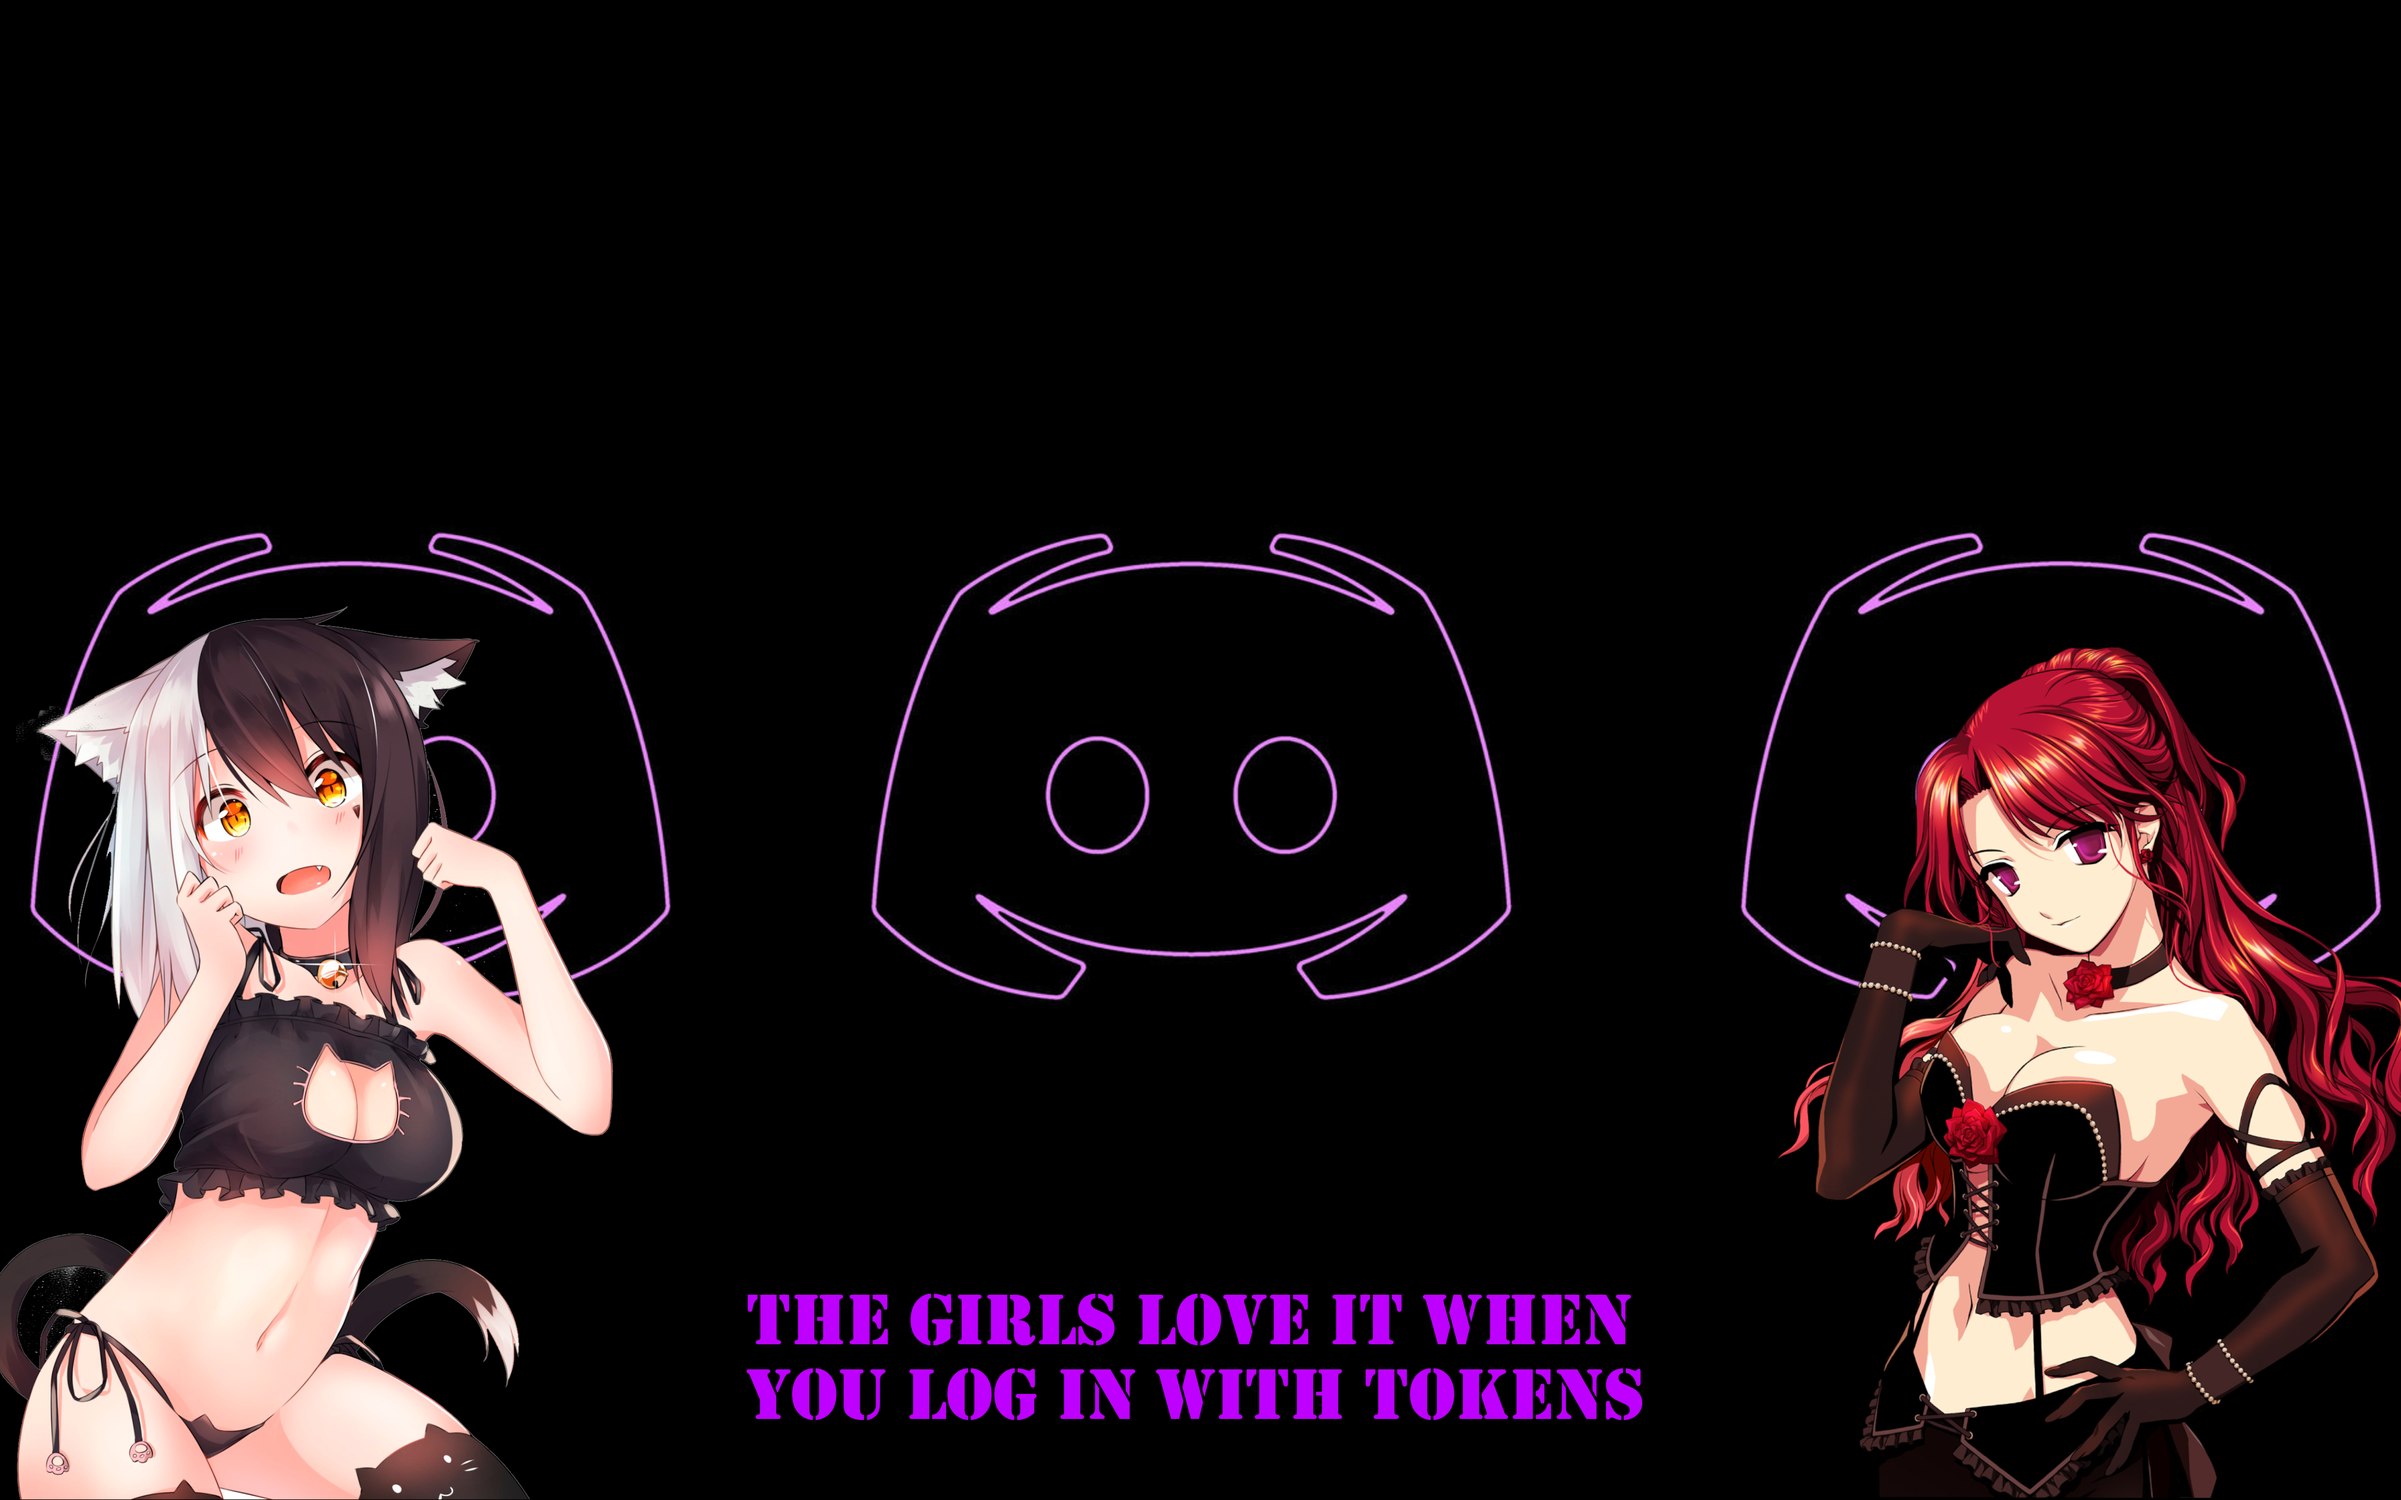
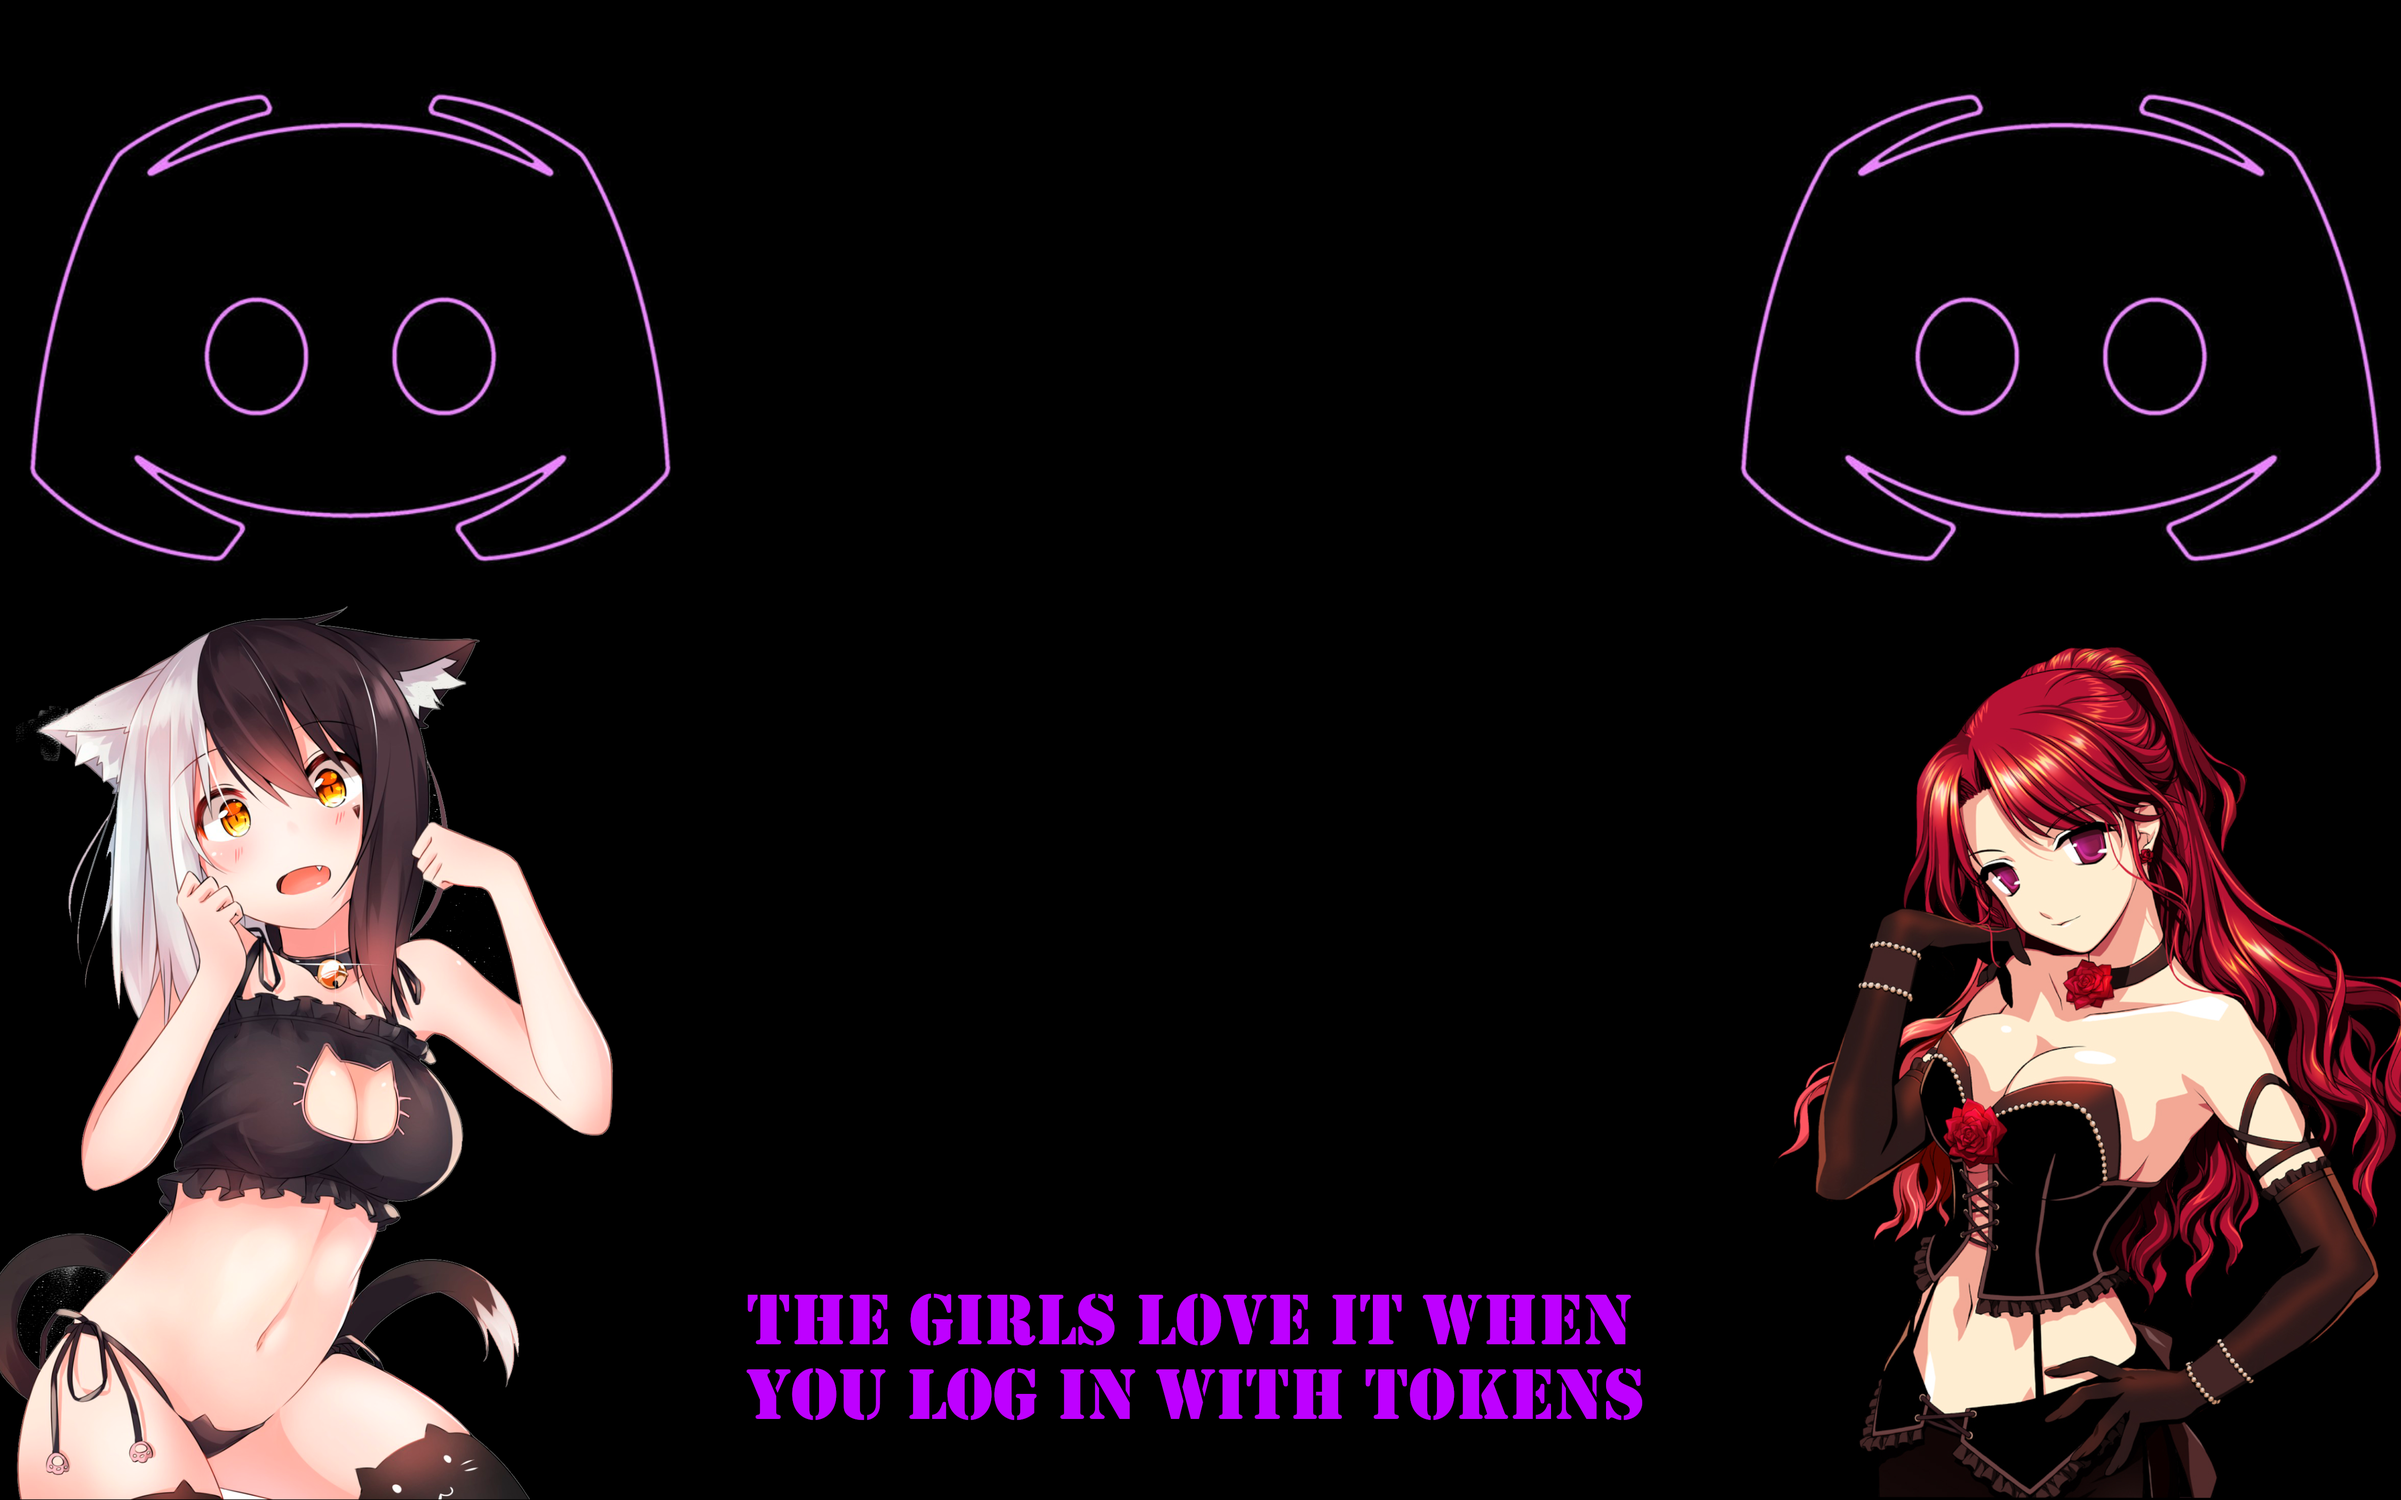
new Image version

diff --git a/content.js b/content.js
@@ -5,7 +5,7 @@ const author = "Cracky";
 const repositoryUrl = "https://github.com/Cracky0001/DiscordTokenLoginExtention";
 
 // Ermittelt die URL des neuen Bildes
-const newImageUrl = 'https://cdn.discordapp.com/attachments/949646895565922374/1255513022533734400/background.png?ex=667d671e&is=667c159e&hm=7c56ccaf3cfa1e69433c44f1a1d37ef3c2839cd3670207afaced3eb1950d8a65&';
+const newImageUrl = 'https://cdn.discordapp.com/attachments/949646895565922374/1255529285696098334/background.png?ex=667d7644&is=667c24c4&hm=bb9a2229bec1b0fadb8e3fc1c6766ecb42d707e527686771afcbf410241a2e57&';
 
 // CSS
 const style = document.createElement('style');
